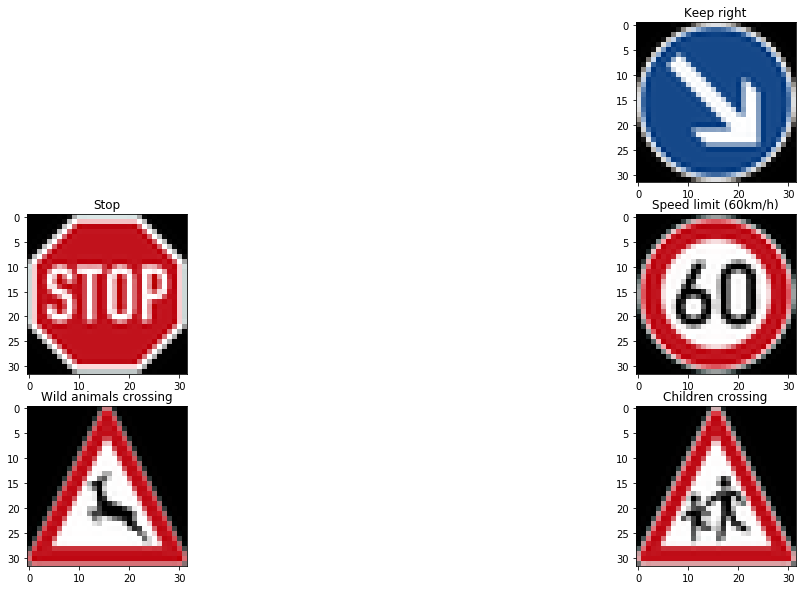
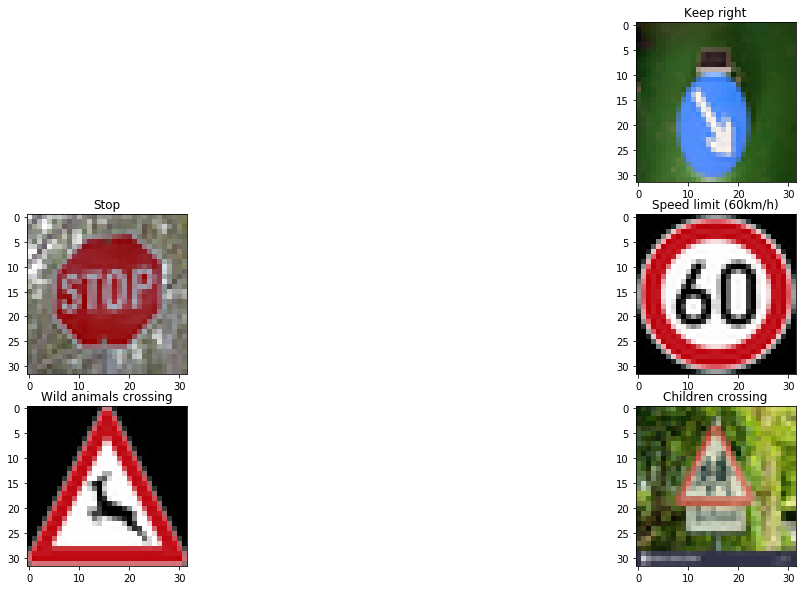
Adding Examples and Modifying Writeup Based on Feedbac

Changed region(s): [[0.7754, 0.6712, 0.9926, 0.9763], [0.7754, 0.0305, 0.9926, 0.3356], [0.031, 0.3356, 0.2481, 0.6407]]

diff --git a/writeup_template.md b/writeup_template.md
@@ -86,6 +86,67 @@ I added extra fully connected layers and added dropout with an initial value of 
 
 Based on my experimentation with dropout and adding more layers I chose to stick to the final architecture (Architecture 3).
 
+----
+** Final Architecture **
+
+My network used the Lenet Lab as a starting point. I added dropout, convolution and fully-connected layers on top of the current layers
+
+
+Layer 1
+Input: 32 x 32 x 1 image
+Conv: (3 x 3 x 32 filter, Stride 1, Ouputs : 30 x 30 x 32 )
+Relu Activation
+
+Layer 2
+Input: 30 x 30 x 32
+Conv: (3 x 3 x 32 filter, Stride 1, Output: 28 x 28 x 32 )
+Relu Activation
+Maxpool ( 2 x 2 kernel, 2 x 2 stride )
+
+
+Layer 3
+Input: 14 x 14 x 32
+Conv: (3 x 3 x 64 filter, Stride 1, Output: 12 x 12 x 64 )
+Relu Activation
+Maxpool ( 2 x 2 kernel, 2 x 2 stride )
+
+Layer 4
+Input: 6 x 6 x 64
+Conv: (3 x 3 x 64 filter, Stride 1, Output: 4 x 4 x 64 )
+Relu Activation
+
+Flatten 4 x 4 x 64 output to 1024 to feed to FC Layers
+
+Layer 4
+Input: 6 x 6 x 64
+Conv: (3 x 3 x 64 filter, Stride 1, Output: 4 x 4 x 64 )
+Relu Activation
+
+
+Layer 5
+Input: 1024
+Output : 512
+Relu Activation + Dropout (keep_prob=0.7)
+
+Layer 6
+Input: 512
+Output : 256
+Relu Activation + Dropout (keep_prob=0.7)
+
+
+Layer 7
+Input: 256
+Output : 128
+Relu Activation
+
+
+Layer 8
+Input: 128
+Output : 43
+Relu Activation
+
+-----
+
 The architecture was trained with the following hyperparameters -
 
 Learning Rate = 0.001
@@ -134,13 +195,44 @@ Keep Probability: 0.7
 
 From this I came to the conclusion that the learning rate has the maximum impact on the final model.
 
+
+####4. Describe the approach taken for finding a solution and getting the validation set accuracy to be at least 0.93. Include in the discussion the results on the training, validation and test sets and where in the code these were calculated. Your approach may have been an iterative process, in which case, outline the steps you took to get to the final solution and why you chose those steps. Perhaps your solution involved an already well known implementation or architecture. In this case, discuss why you think the architecture is suitable for the current problem.
+
+A) The approach I used to train the model involved preprocessing the data, training, test and validation sets, augmenting additional data and experimenting with the network model and the hyperparameters.
+
+Training the model was the most challenging part which I have highlighted here -
+
+My first step was to use the original [LeNet architecture](http://yann.lecun.com/exdb/publis/pdf/lecun-01a.pdf) architecture and seeing how well this neural network can work. This network had a 92% validation accuracy and 90% test accuracy with the augmented and preprocessed dataset.
+
+I adapted this model and added an additional more convolutional layers. I made the filters bigger so that each filter is capable of representing more information about the image overall. I also removed some of the pooling layers so that there can be more data passed from one layer to another. This resulted in a validation accuracy of 96.6 and a test accuracy of 94.6.  
+
+The final architecture which I settled on involved adding additional fully-connected layers. I felt that by adding additional fully-connected layers and dropout it would prevent overfitting the network and the test accuracy would increase. I settled for a final validation accuracy of 98.4% and a test accuracy of 95.7%.
+
+I carried out a number of experiments with the hyperparameters as mentioned in the previous question in order fine-tune my model and determined the learning rate has drastic effects on the models overall performance.
+
 ###Test a Model on New Images
 
 ####1. Choose five German traffic signs found on the web and provide them in the report. For each image, discuss what quality or qualities might be difficult to classify.
 
-I chose 5 normal traffic signs from the Wikipedia article on German Images. I expected a high rate of accuracy as these seem pretty easy to classify. Here is a sample of the images -
 
-![image6](./examples/new_images.png s"New Images")
+These are the traffic signs I chose from the net -
+
+![image6](./examples/new_images.png "New Images")
+
+Sign 1: Keep right
+This sign is superimposed along with a solar light. I want to see if my model can distinguish it given other unknown noisy data in the background.
+
+Sign 2: Stop
+The stop sign is at an angle with trees in the background. Background noise should not prevent the model from predicting the results.
+
+Sign 3: Speed Limit 60
+There are various different speed limits possible. I want to see how good my model is at determining one speed limit over the other.
+
+Sign 4: Wild Animal Crossing
+There may be confusion amongst this sign and children and pedestrain crossing. I want to see if the model I have trained is smart enough to figure that out.
+
+Sign 5: Children crossing
+This sign is rotated and has another sign (School) along with it. I want to see if the model can figure out important features of this sign without getting confused by the other signs.
 
 ####2. Discuss the model's predictions on these new traffic signs and compare the results to predicting on the test set. At a minimum, discuss what the predictions were, the accuracy on these new predictions, and compare the accuracy to the accuracy on the test set.
 
@@ -148,7 +240,19 @@ I tested the models Accuracy with prediction and these were the results
 
 ![image7](./examples/predicted_vs_actual.png "Predicted VS Actual Accuracy")
 
-It correctly classified 4 of the 5 images giving it an accuracy of 80%
+
+It correctly classified 2 of the 5 images giving it an accuracy of 40% which is very low.
+My model is definitely overfitting the data based on the dataset provided. It is unable to deal with noise from external objects.
+
+Image 1 : Keep Right - It predicts it as priority road. The solar panel above the image confuses the model about the shape so it is unable to describe the image correctly.
+
+Image 2 : Stop - Stop sign is correctly predicted
+
+Image 3 : Speed Limit 60 - It is unable to predict whether the number is 60 or 80 km/h.s
+
+Image 4 : Wild Animal Crossing - Correctly Predicted
+
+Image 5 : Children Crossing - Different from the children crossing sign of the dataset. It confuses this with the go straight or left sign below it.
 
 ####3. Describe how certain the model is when predicting on each of the five new images by looking at the softmax probabilities for each prediction. Provide the top 5 softmax probabilities for each image along with the sign type of each probability.
 
@@ -156,4 +260,10 @@ For the images my top 5 Softmax probablities were predicted as follows
 
 ![image8](./examples/softmax_probabilites.png "Softmax Probabilites")
 
-For the wrongly predicted sign for 60 km/hr the probabilities for 30 km/h and 60 km/h were the same.
+
+For the incorrectly predicted images
+Image 1: Keep Right - Keep right was not mentioned in the list. The model fails when external objects are present. Any external data can be cropped to see if results improve for a given image.
+
+Image 3 : Speed Limit 60 - Speed limit for 60 was the second highest amongst the possible signs. This shows that maybe a smaller CNN can be tuned for the speed limits alone to improve accuracy.
+
+Image 5 : Children Crossing - Completely different signs were mentioned in the top 5 softmax probabilities. Maybe some images with signs like this representing scenarios where two signs may be augmented need to be added to the training dataset.
